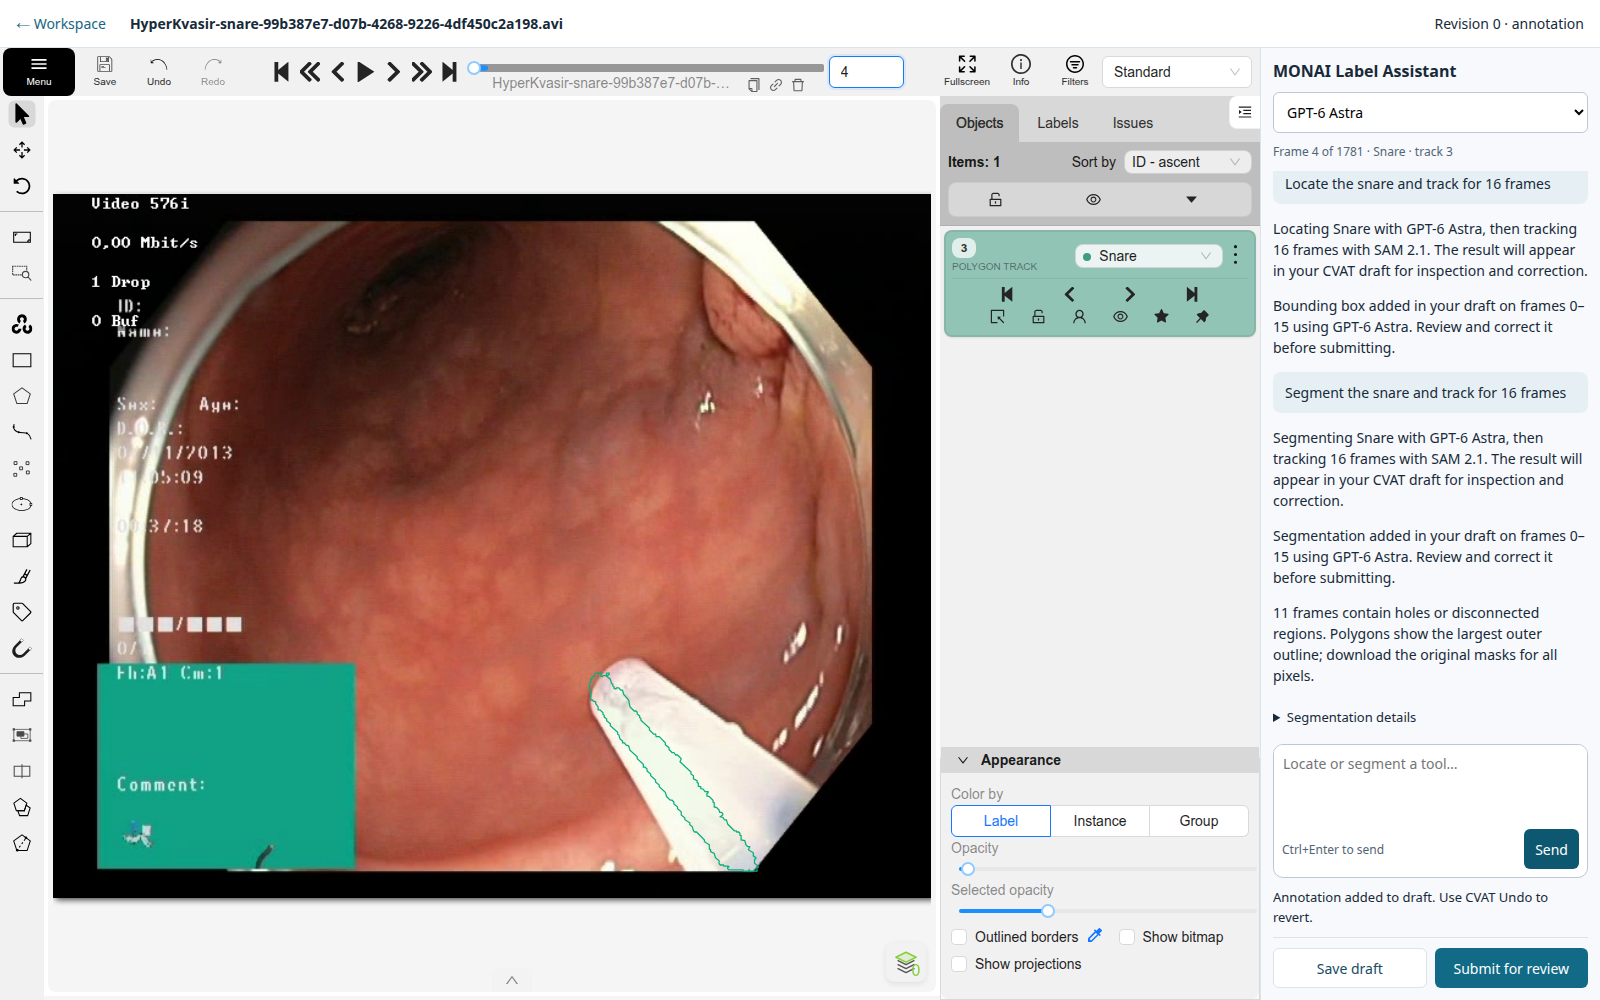
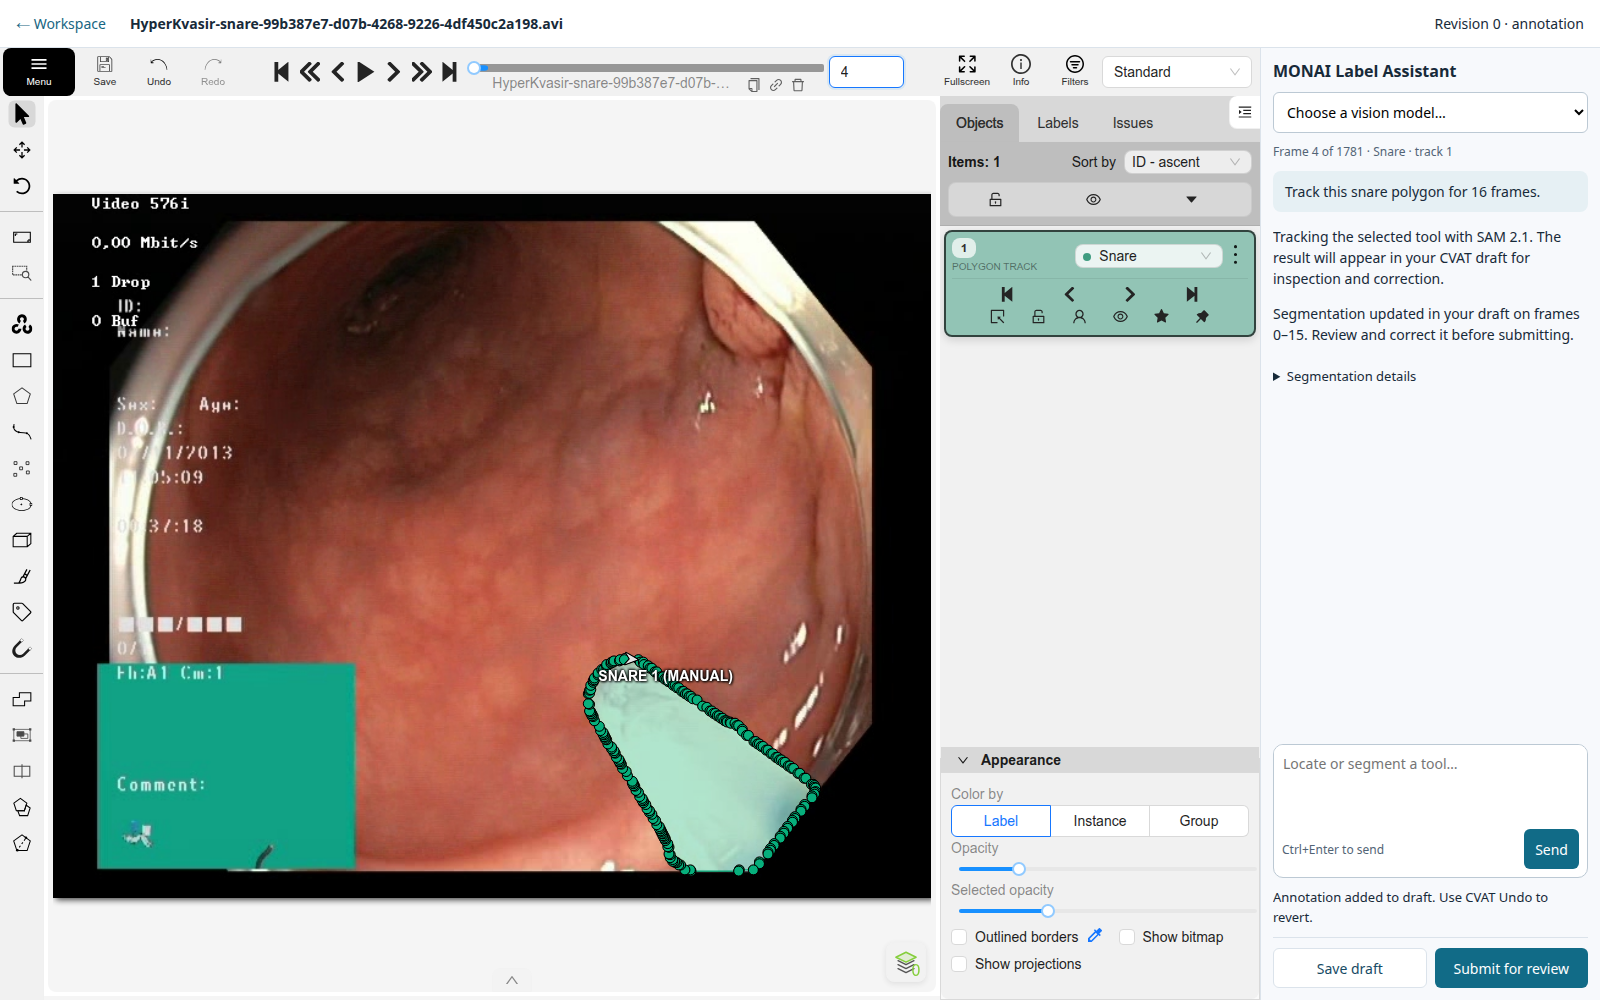
Add rotating README gallery and refine CVAT screenshot

diff --git a/README.md b/README.md
@@ -4,42 +4,25 @@ MONAI Label is an open-source image labeling and learning tool for interactive A
 
 Import datasets, review annotations, train and fine-tune models, and compare their results from one web workspace.
 
-<table>
-<tr><td colspan="2"><b>Web workspace</b> — projects, datasets, models and reviews</td></tr>
-<tr align="center"><td><b>Overview</b></td><td><b>Datasets</b></td></tr>
-<tr align="center">
-<td><a href="docs/assets/overview.png"><img src="docs/assets/overview.png" alt="Project overview with synthetic sample and review counts" height="200"></a></td>
-<td><a href="docs/assets/datasets.png"><img src="docs/assets/datasets.png" alt="Dataset workspace with annotation and evaluation images" height="200"></a></td>
-</tr>
-<tr align="center"><td><b>Models</b></td><td><b>Reviews</b></td></tr>
-<tr align="center">
-<td><a href="docs/assets/models.png"><img src="docs/assets/models.png" alt="Project and base annotation models" height="200"></a></td>
-<td><a href="docs/assets/reviews.png"><img src="docs/assets/reviews.png" alt="Pending annotations and review decisions" height="200"></a></td>
-</tr>
-</table>
+<p align="center">
+<picture>
+<source media="(prefers-reduced-motion: reduce)" srcset="docs/assets/overview.png">
+<img src="docs/assets/gallery.gif" alt="MONAI Label workspace and viewers" width="100%">
+</picture>
+</p>
 
-<table>
-<tr><td colspan="2"><b>Viewers</b> — the same backend and assistant in each</td></tr>
-<tr align="center"><td><b>3D Slicer</b></td><td><b>OHIF</b></td></tr>
-<tr align="center">
-<td><a href="docs/assets/slicer.png"><img src="docs/assets/slicer.png" alt="Liver and spleen annotations with the MONAI Label review assistant in 3D Slicer" height="180"></a></td>
-<td><a href="docs/assets/ohif.png"><img src="docs/assets/ohif.png" alt="CT image and MONAI Label review controls in OHIF" height="180"></a></td>
-</tr>
-<tr align="center"><td><b>QuPath</b></td><td><b>CVAT</b></td></tr>
-<tr align="center">
-<td><a href="docs/assets/qupath.png"><img src="docs/assets/qupath.png" alt="Editable nuclei annotations and the MONAI Label assistant in QuPath" height="180"></a></td>
-<td><a href="docs/assets/cvat.png"><img src="docs/assets/cvat.png" alt="Editable snare polygon tracks and the CVAT assistant" height="180"></a></td>
-</tr>
-</table>
-
-<table>
-<tr><td colspan="2"><b>Learning</b> — train on reviewed labels, compare on held-out data</td></tr>
-<tr align="center"><td><b>Training</b></td><td><b>Evaluation</b></td></tr>
-<tr align="center">
-<td><a href="docs/assets/training.png"><img src="docs/assets/training.png" alt="Training settings with a fixed evaluation set" width="240"></a></td>
-<td><a href="docs/assets/comparison.png"><img src="docs/assets/comparison.png" alt="Dice comparison and evaluation logs" width="240"></a></td>
-</tr>
-</table>
+<p align="center">
+<a href="docs/assets/overview.png"><img src="docs/assets/overview.png" alt="Overview" title="Overview" width="7%"></a>&nbsp;
+<a href="docs/assets/datasets.png"><img src="docs/assets/datasets.png" alt="Datasets" title="Datasets" width="7%"></a>&nbsp;
+<a href="docs/assets/models.png"><img src="docs/assets/models.png" alt="Models" title="Models" width="7%"></a>&nbsp;
+<a href="docs/assets/reviews.png"><img src="docs/assets/reviews.png" alt="Reviews" title="Reviews" width="7%"></a>&nbsp;
+<a href="docs/assets/slicer.png"><img src="docs/assets/slicer.png" alt="3D Slicer" title="3D Slicer" width="7%"></a>&nbsp;
+<a href="docs/assets/ohif.png"><img src="docs/assets/ohif.png" alt="OHIF" title="OHIF" width="7%"></a>&nbsp;
+<a href="docs/assets/qupath.png"><img src="docs/assets/qupath.png" alt="QuPath" title="QuPath" width="7%"></a>&nbsp;
+<a href="docs/assets/cvat.png"><img src="docs/assets/cvat.png" alt="CVAT" title="CVAT" width="7%"></a>&nbsp;
+<a href="docs/assets/training.png"><img src="docs/assets/training.png" alt="Training" title="Training" width="7%"></a>&nbsp;
+<a href="docs/assets/comparison.png"><img src="docs/assets/comparison.png" alt="Evaluation" title="Evaluation" width="7%"></a>
+</p>
 
 ## System requirements
 
